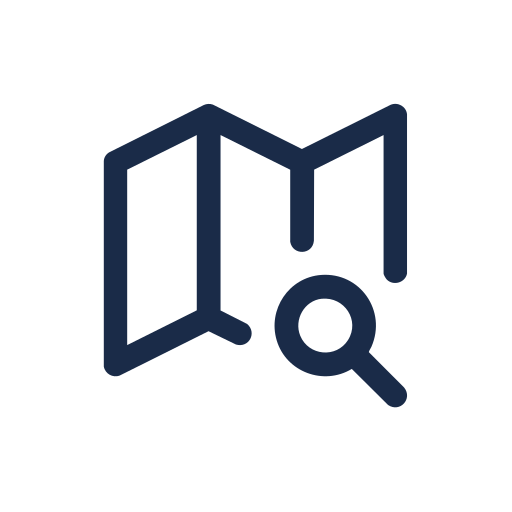
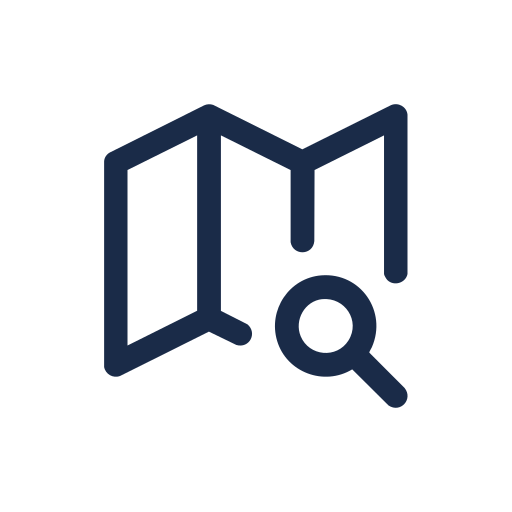
feat(site): комплект значков без рамки, на прозрачном фоне
Все значки пересобраны из векторного знака проекта
(assets/icons/c/logo-mark--navy.svg), убрана синяя обводка-рамка.
Освободившееся место отдано знаку: 74% -> 92% ширины холста, за счёт
чего заметно прибавила читаемость записи 16x16 в favicon.ico.

Фон прозрачный везде, кроме двух случаев, где прозрачность не ухудшает
картинку, а ломает её:
- maskable — лаунчер заливает подложкой то, что внутри своей маски, и
  изображение обязано закрывать весь холст, иначе форма маски пробивается
  в пустоту;
- apple-touch — iOS заливает альфа-канал чёрным.

Прозрачность стоит того, что тёмно-синий знак почти пропадает на тёмной
панели вкладок. Отсюда icon-dark.svg — тот же знак белым, из уже лежащего
в проекте logo-mark--white.svg; браузер выбирает вариант сам по
prefers-color-scheme.

/favicon.ico убран из metadata.icons: app/favicon.ico — файловое
соглашение Next, его <link> и так подставляется первым, то есть ровно
там, где нужен запасной вариант. Дубль в конце списка перебивал бы обе
SVG (он подходит под любую тему) и тёмный значок никогда бы не отдавался.

Новые файлы: apple-touch-icon.png (без него iOS ставит на экран «Домой»
скриншот страницы) и icon-192-maskable.png (без него Android на экранах,
которым хватает 192, ужимает 512 и мылит линии).

Claude-Session: https://claude.ai/code/session_01RhEgea5AAjD86PSU1hTLYg

diff --git a/platform/frontend/app/layout.tsx b/platform/frontend/app/layout.tsx
@@ -50,11 +50,24 @@ export const metadata: Metadata = {
   title: "GEOHOD QUEST — авторские квесты",
   description: "GEOHOD QUEST — авторские городские квесты. Откройте город с новой стороны. Магазин квестов, игрок и конструктор.",
   icons: {
-    // Logo mark only (no wordmark). SVG for crisp modern browsers; .ico fallback.
+    // Logo mark only (no wordmark), on a transparent ground. Transparency costs
+    // the white plate that used to lift the navy mark off a dark tab strip, so
+    // the scheme-matched pair pays it back: the white mark is served in dark
+    // mode.
+    //
+    // /favicon.ico is deliberately NOT listed here. app/favicon.ico is a file
+    // convention — Next emits its <link> ahead of these, which is exactly where
+    // a catch-all belongs, because browsers take the LAST matching entry.
+    // Repeating it below would have made the .ico win over both SVGs (it
+    // matches every scheme) and the dark variant would never be served.
     icon: [
-      { url: "/icon.svg", type: "image/svg+xml" },
-      { url: "/favicon.ico", sizes: "48x48" },
+      { url: "/icon.svg", type: "image/svg+xml", media: "(prefers-color-scheme: light)" },
+      { url: "/icon-dark.svg", type: "image/svg+xml", media: "(prefers-color-scheme: dark)" },
     ],
+    // iOS renders alpha as black and rounds the corners itself, so this one is
+    // an opaque square. Without it a home-screen shortcut gets a page
+    // screenshot instead of the mark.
+    apple: [{ url: "/apple-touch-icon.png", sizes: "180x180" }],
   },
 };
 

diff --git a/platform/frontend/app/manifest.ts b/platform/frontend/app/manifest.ts
@@ -18,8 +18,13 @@ export default function manifest(): MetadataRoute.Manifest {
     display: 'standalone',
     background_color: '#ffffff',
     theme_color: '#3B71FE',
+    // The maskable pair carries an opaque ground on purpose: the launcher fills
+    // its mask from the image, so a transparent one is punched through to
+    // nothing. Both sizes are listed because a device that only needs 192 would
+    // otherwise downscale the 512 and smear the strokes.
     icons: [
       { src: '/icon-192.png', sizes: '192x192', type: 'image/png' },
+      { src: '/icon-192-maskable.png', sizes: '192x192', type: 'image/png', purpose: 'maskable' },
       { src: '/icon-512-maskable.png', sizes: '512x512', type: 'image/png', purpose: 'maskable' },
       { src: '/icon-512.png', sizes: '512x512', type: 'image/png' },
     ],
